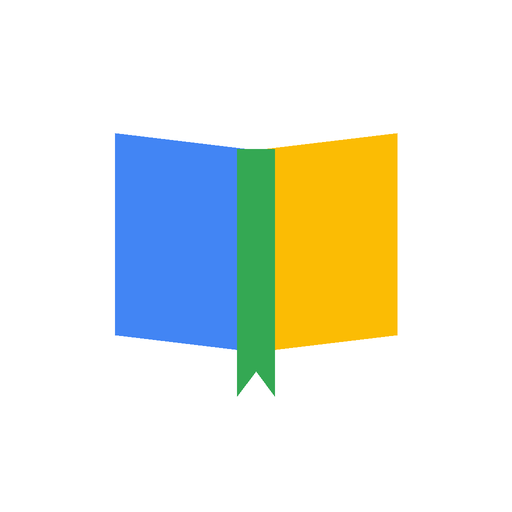
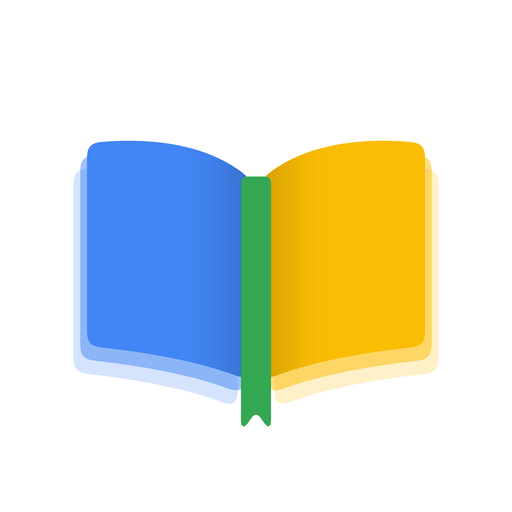
著者検索・バックアップボタンを追加し、アイコンを刷新
- 検索画面に「タイトル／著者」の切り替えを追加
- 本棚右上にバックアップボタンを追加。スマホでは共有メニューからGoogleドライブ等へ保存する
- 検索画面の「手入力」ボタンと手入力の画面を削除
- アイコンを半透明の重なりと陰影のあるデザインに変更

Changed region(s): [[0.125, 0.25, 0.875, 0.8438]]

diff --git a/app.js b/app.js
@@ -19,6 +19,7 @@ const STATUS = {
 };
 
 let activeTab = 'want';
+let searchBy = 'title';
 
 /* ---------- DOM helper ---------- */
 
@@ -54,6 +55,7 @@ const ICONS = {
   star: 'M12 17.27L18.18 21l-1.64-7.03L22 9.24l-7.19-.61L12 2 9.19 8.63 2 9.24l5.46 4.73L5.82 21z',
   mic: 'M12 14c1.66 0 3-1.34 3-3V5c0-1.66-1.34-3-3-3S9 3.34 9 5v6c0 1.66 1.34 3 3 3zm5-3c0 2.76-2.24 5-5 5s-5-2.24-5-5H5c0 3.53 2.61 6.43 6 6.92V21h2v-3.08c3.39-.49 6-3.39 6-6.92h-2z',
   stop: 'M6 6h12v12H6z',
+  backup: 'M19.35 10.04C18.67 6.59 15.64 4 12 4 9.11 4 6.6 5.64 5.35 8.04 2.34 8.36 0 10.91 0 14c0 3.31 2.69 6 6 6h13c2.76 0 5-2.24 5-5 0-2.64-2.05-4.78-4.65-4.96zM19 18H6c-2.21 0-4-1.79-4-4 0-2.05 1.53-3.76 3.56-3.97l1.07-.11.5-.95C8.08 7.14 9.94 6 12 6c2.62 0 4.88 1.86 5.39 4.43l.3 1.5 1.53.11c1.56.1 2.78 1.41 2.78 2.96 0 1.65-1.35 3-3 3zM8 13h2.55v3h2.9v-3H16l-4-4z',
   book: 'M18 2H6c-1.1 0-2 .9-2 2v16c0 1.1.9 2 2 2h12c1.1 0 2-.9 2-2V4c0-1.1-.9-2-2-2zm0 18H6V4h2v8l2.5-1.5L13 12V4h5v16z',
 };
 
@@ -133,7 +135,7 @@ function bar({ title = '', left, right }) {
   return h('header', { class: 'bar' }, [
     left,
     h('h1', { class: 'bar__title', text: title }),
-    right,
+    ...[].concat(right),
   ]);
 }
 
@@ -186,7 +188,18 @@ async function viewShelf() {
   return [
     bar({
       title: '読書記録',
-      right: h('button', { class: 'icon-btn', 'aria-label': '設定', onClick: () => go('/settings') }, icon('tune')),
+      right: [
+        h('button', {
+          class: `icon-btn${backupIsStale() ? ' icon-btn--dot' : ''}`,
+          'aria-label': 'バックアップ',
+          title: 'バックアップ',
+          onClick: async (e) => {
+            const button = e.currentTarget;
+            if (await runBackup(books) !== null) button.classList.remove('icon-btn--dot');
+          },
+        }, icon('backup')),
+        h('button', { class: 'icon-btn', 'aria-label': '設定', onClick: () => go('/settings') }, icon('tune')),
+      ],
     }),
     h('main', {}, grid),
     h('button', { class: 'fab', 'aria-label': '本を追加', onClick: () => go('/new') }, icon('add', 28)),
@@ -203,6 +216,11 @@ async function addFromCandidate(candidate) {
   go(`/book/${book.id}`);
 }
 
+const SEARCH_BY = {
+  title: { label: 'タイトル', placeholder: 'タイトルで探す' },
+  author: { label: '著者', placeholder: '著者名で探す' },
+};
+
 function viewSearch() {
   let controller;
 
@@ -211,13 +229,32 @@ function viewSearch() {
 
   const input = h('input', {
     type: 'search',
-    placeholder: 'タイトルで探す',
+    placeholder: SEARCH_BY[searchBy].placeholder,
     enterkeyhint: 'search',
     autocomplete: 'off',
     onKeyDown: (e) => {
       if (e.key === 'Enter') search();
     },
   });
+
+  const byPills = h('div', { class: 'pills search-by' },
+    Object.entries(SEARCH_BY).map(([key, { label }]) =>
+      h('button', {
+        class: 'pill',
+        'aria-pressed': String(key === searchBy),
+        text: label,
+        onClick: (e) => {
+          searchBy = key;
+          for (const pill of e.currentTarget.parentElement.children) {
+            pill.setAttribute('aria-pressed', String(pill === e.currentTarget));
+          }
+          input.placeholder = SEARCH_BY[key].placeholder;
+          if (input.value.trim()) search();
+          else input.focus();
+        },
+      })
+    )
+  );
 
   async function search() {
     const query = input.value.trim();
@@ -229,7 +266,7 @@ function viewSearch() {
     status.textContent = '検索中…';
 
     try {
-      const candidates = await searchBooks(query, { signal: controller.signal });
+      const candidates = await searchBooks(query, { by: searchBy, signal: controller.signal });
       if (!candidates.length) {
         status.textContent = '見つかりませんでした。別の言葉でも試してみてください。';
         return;
@@ -268,9 +305,9 @@ function viewSearch() {
     bar({
       title: '本を追加',
       left: backButton(() => go('/')),
-      right: h('button', { class: 'text-btn', text: '手入力', onClick: () => go('/manual') }),
     }),
     h('main', {}, [
+      byPills,
       h('div', { class: 'search' }, [
         input,
         h('button', { class: 'search__go', text: '検索', onClick: search }),
@@ -281,11 +318,10 @@ function viewSearch() {
   ];
 }
 
-/* ---------- Add / edit: manual form ---------- */
+/* ---------- Edit ---------- */
 
 async function viewForm(id) {
-  const editing = Boolean(id);
-  const book = editing ? await getBook(id) : createBook({ status: activeTab });
+  const book = await getBook(id);
   if (!book) return viewMissing();
 
   const draft = { ...book, authors: [...book.authors] };
@@ -321,20 +357,20 @@ async function viewForm(id) {
     if (!draft.title) return;
     await saveBook(draft);
     activeTab = draft.status;
-    toast(editing ? '保存しました' : '本棚に追加しました');
+    toast('保存しました');
     go(`/book/${draft.id}`);
   };
 
   submit = h('button', {
     class: 'btn',
-    text: editing ? '保存する' : '本棚に追加',
+    text: '保存する',
     disabled: !draft.title,
     onClick: save,
   });
 
   return [
     bar({
-      title: editing ? '書誌を編集' : '手入力で追加',
+      title: '書誌を編集',
       left: backButton(() => history.back()),
     }),
     h('main', {}, [
@@ -862,20 +898,61 @@ function availabilityNode(system, result) {
 
 const DAY = 24 * 60 * 60 * 1000;
 
+function backupIsStale() {
+  const lastBackupAt = getSetting(KEYS.lastBackupAt);
+  return !lastBackupAt || Date.now() - Date.parse(lastBackupAt) > 30 * DAY;
+}
+
+/* スマホでは共有メニューを開き、Googleドライブなどへ直接保存できるようにする。
+   AndroidのChromeは .json を共有できないため、そのときは .txt で渡す（中身は同じJSON）。 */
+async function deliverFile(text, basename) {
+  if (navigator.canShare && matchMedia('(pointer: coarse)').matches) {
+    for (const [ext, type] of [['json', 'application/json'], ['txt', 'text/plain']]) {
+      const file = new File([text], `${basename}.${ext}`, { type });
+      if (navigator.canShare({ files: [file] })) {
+        await navigator.share({ files: [file] });
+        return;
+      }
+    }
+  }
+  const url = URL.createObjectURL(new Blob([text], { type: 'application/json' }));
+  h('a', { href: url, download: `${basename}.json` }).click();
+  URL.revokeObjectURL(url);
+}
+
+/* 共有メニューはタップ直後でないと開けないため、読み込み済みの本があれば渡してもらう。
+   成功したら冊数、キャンセル・失敗なら null を返す。 */
+async function runBackup(books) {
+  try {
+    const all = books || await listBooks();
+    const payload = {
+      schema: 'readinglog.v1',
+      exportedAt: new Date().toISOString(),
+      books: all,
+    };
+    await deliverFile(JSON.stringify(payload, null, 1), `読書記録-${todayISO()}`);
+    setSetting(KEYS.lastBackupAt, new Date().toISOString());
+    toast(`${all.length}冊をバックアップしました`);
+    return all.length;
+  } catch (error) {
+    if (error.name !== 'AbortError') toast('バックアップできませんでした');
+    return null;
+  }
+}
+
 function backupCard() {
   const lastBackupAt = getSetting(KEYS.lastBackupAt);
-  const stale = !lastBackupAt || Date.now() - Date.parse(lastBackupAt) > 30 * DAY;
 
   const state = h('p', {
     class: 'field__note',
     text: lastBackupAt
-      ? `最後に書き出したのは ${lastBackupAt.slice(0, 10)} です。`
-      : 'まだ一度も書き出していません。',
+      ? `最後にバックアップしたのは ${lastBackupAt.slice(0, 10)} です。`
+      : 'まだ一度もバックアップしていません。',
   });
 
   const fileInput = h('input', {
     type: 'file',
-    accept: 'application/json,.json',
+    accept: 'application/json,.json,text/plain,.txt',
     hidden: true,
     onChange: async (e) => {
       const file = e.target.files[0];
@@ -897,24 +974,14 @@ function backupCard() {
   });
 
   const exportNow = async () => {
-    const books = await listBooks();
-    const payload = {
-      schema: 'readinglog.v1',
-      exportedAt: new Date().toISOString(),
-      books,
-    };
-    const url = URL.createObjectURL(new Blob([JSON.stringify(payload, null, 1)], { type: 'application/json' }));
-    const link = h('a', { href: url, download: `読書記録-${todayISO()}.json` });
-    link.click();
-    URL.revokeObjectURL(url);
-    setSetting(KEYS.lastBackupAt, new Date().toISOString());
-    state.textContent = `${books.length}冊を書き出しました。`;
-    toast('書き出しました');
+    const count = await runBackup();
+    if (count !== null) state.textContent = `${count}冊をバックアップしました。`;
   };
 
   return h('div', { class: 'card' }, [
     h('p', { class: 'card__label', text: 'バックアップ' }),
-    h('button', { class: 'btn', text: 'ファイルに書き出す', onClick: exportNow }),
+    h('button', { class: 'btn', text: 'バックアップする', onClick: exportNow }),
+    h('p', { class: 'field__note', text: 'スマホでは共有メニューが開きます。「ドライブ」を選ぶとGoogleドライブに保存されます。' }),
     h('button', {
       class: 'tonal',
       style: { width: '100%', justifyContent: 'center', marginTop: 'var(--s3)' },
@@ -923,8 +990,8 @@ function backupCard() {
     }),
     fileInput,
     state,
-    stale && h('p', { class: 'field__note warn', text: '記録はこの端末の中にしかありません。機種変更やブラウザのデータ削除で消えるため、ときどき書き出してください。' }),
-    h('p', { class: 'field__note', text: 'APIキーはバックアップに含まれません。' }),
+    backupIsStale() && h('p', { class: 'field__note warn', text: '記録はこの端末の中にしかありません。機種変更やブラウザのデータ削除で消えるため、ときどき保存してください。' }),
+    h('p', { class: 'field__note', text: '機種変更や、別のスマホに記録を移すときは、保存したファイルを「ファイルから読み戻す」で取り込みます。同じ本は新しいほうの記録が残ります。APIキーはバックアップに含まれません。' }),
   ]);
 }
 
@@ -948,7 +1015,6 @@ async function render() {
   let nodes;
   if (section === 'book' && param) nodes = await viewDetail(param);
   else if (section === 'edit' && param) nodes = await viewForm(param);
-  else if (section === 'manual') nodes = await viewForm(null);
   else if (section === 'new') nodes = viewSearch();
   else if (section === 'settings') nodes = viewSettings();
   else if (section === 'libraries') nodes = viewLibraries();

diff --git a/api.js b/api.js
@@ -38,7 +38,8 @@ function yearOf(salesDate) {
   return (salesDate || '').match(/\d{4}/)?.[0] || '';
 }
 
-export async function searchBooks(title, { signal } = {}) {
+/* by: 'title' ならタイトル、'author' なら著者名で探す */
+export async function searchBooks(query, { by = 'title', signal } = {}) {
   const appId = getSetting(KEYS.rakutenAppId);
   const accessKey = getSetting(KEYS.rakutenAccessKey);
   if (!appId || !accessKey) throw new MissingKeyError();
@@ -47,7 +48,7 @@ export async function searchBooks(title, { signal } = {}) {
   url.searchParams.set('format', 'json');
   url.searchParams.set('applicationId', appId);
   url.searchParams.set('accessKey', accessKey);
-  url.searchParams.set('title', title);
+  url.searchParams.set(by === 'author' ? 'author' : 'title', query);
   url.searchParams.set('hits', '20');
   url.searchParams.set('booksGenreId', '001');
 

diff --git a/style.css b/style.css
@@ -174,6 +174,23 @@ textarea {
   background: var(--surface-2);
 }
 
+/* しばらくバックアップしていないときの通知ドット */
+.icon-btn--dot {
+  position: relative;
+}
+
+.icon-btn--dot::after {
+  content: "";
+  position: absolute;
+  top: 8px;
+  right: 8px;
+  width: 8px;
+  height: 8px;
+  border-radius: 50%;
+  background: var(--g-red);
+  box-shadow: 0 0 0 2px var(--bg);
+}
+
 .text-btn {
   flex: 0 0 auto;
   height: 40px;
@@ -541,6 +558,14 @@ html[data-theme="dark"] .tonal--live {
 }
 
 /* --- Search --- */
+
+.search-by {
+  margin-top: var(--s2);
+}
+
+.search-by + .search {
+  margin-top: var(--s3);
+}
 
 .search {
   display: flex;

diff --git a/sw.js b/sw.js
@@ -1,5 +1,5 @@
 /* アプリを更新したら、この番号を1つ上げること。 */
-const CACHE_VERSION = 'v1';
+const CACHE_VERSION = 'v2';
 
 const SHELL_CACHE = `shell-${CACHE_VERSION}`;
 const COVER_CACHE = 'covers';

diff --git a/README.md b/README.md
@@ -3,7 +3,7 @@
 読んだ本と読みたい本を、表紙付きで記録しておくための個人用アプリ。スマホのブラウザで開き、ホーム画面に追加して使う。
 
 - 記録はすべて端末の中（IndexedDB）に保存され、サーバーには送られない
-- タイトルで検索すると、表紙・著者・出版社が自動で入る（楽天ブックスAPI）
+- タイトルか著者名で検索すると、表紙・著者・出版社が自動で入る（楽天ブックスAPI）
 - 感想は音声入力でも書ける
 - 読みたい本が図書館にあるか確認できる（カーリルAPI）
 
@@ -12,6 +12,15 @@
 <https://yamada724-a11y.github.io/reading-log/> を開き、ブラウザのメニューから「ホーム画面に追加」する。
 
 初回だけ、右上の設定から楽天ブックスAPIのキーを登録する（下記）。
+
+## バックアップ
+
+記録は端末の中にしかないため、ときどき本棚右上の雲のボタンから保存する。30日以上保存していないとボタンに赤い点が付く。
+
+- スマホでは共有メニューが開くので「ドライブ」を選び、Googleドライブに保存する
+- 戻すときは 設定 →「ファイルから読み戻す」でそのファイルを選ぶ。同じ本は更新日時が新しいほうが残るため、別の端末の記録を寄せるのにも使える
+- AndroidのChromeは .json を共有できないため、.txt で保存される（中身は同じJSON）
+- APIキーはバックアップに含まれない
 
 ## APIキーについて
 
